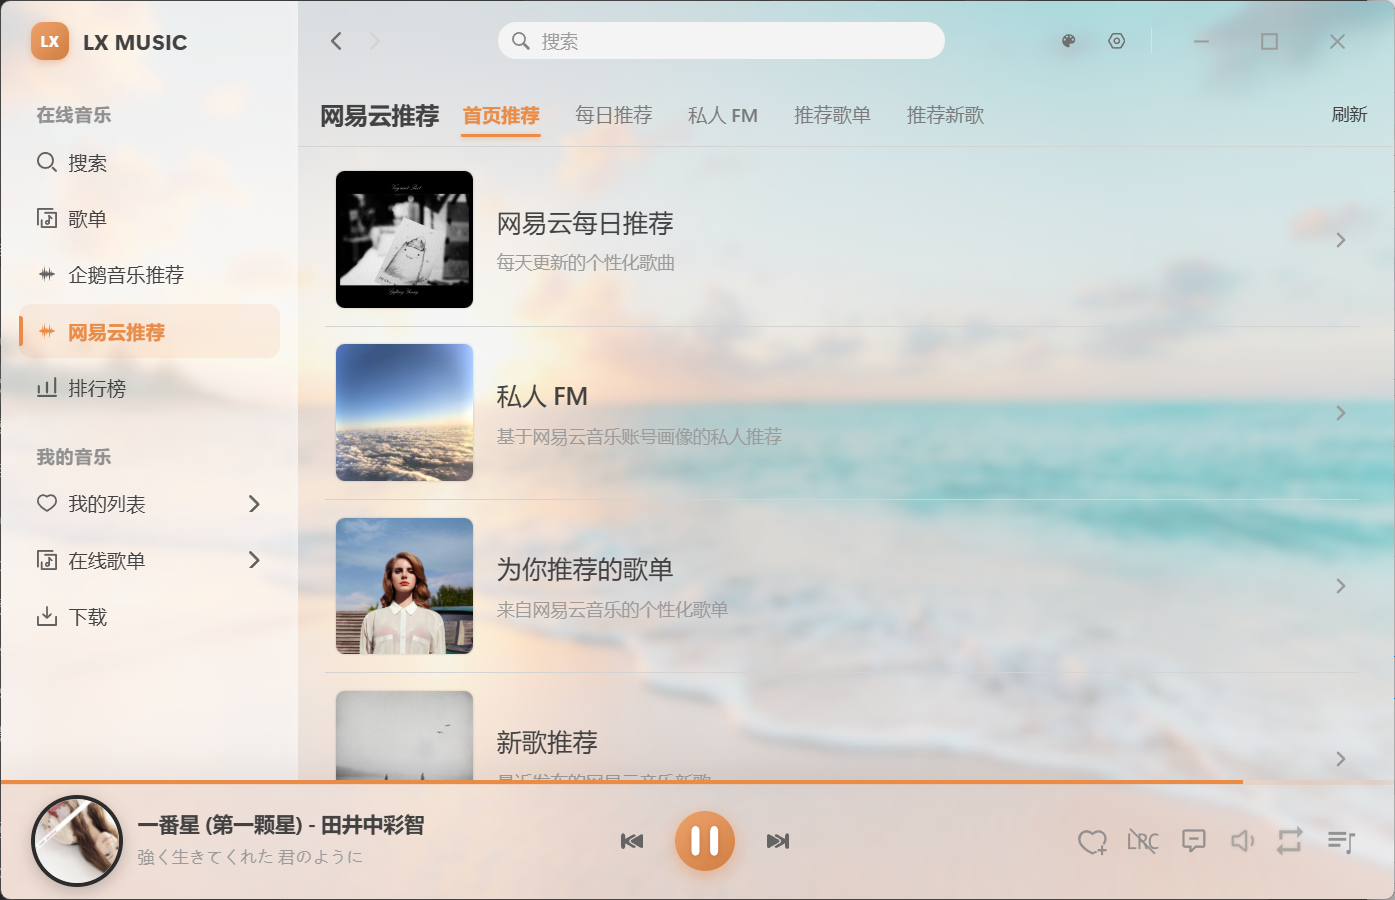
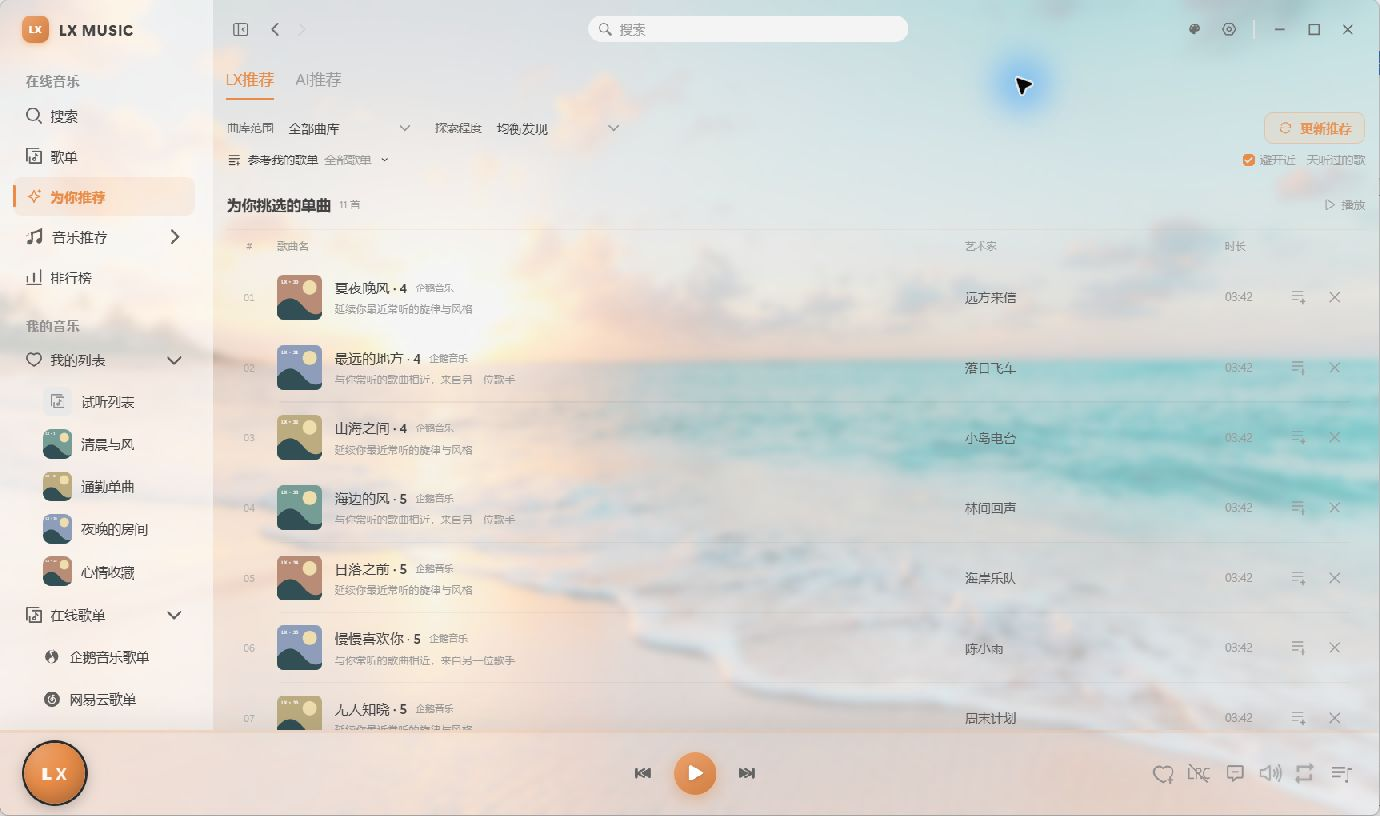
fix: fit desktop lyrics and refresh README screenshots

diff --git a/src/main/modules/winLyric/main.ts b/src/main/modules/winLyric/main.ts
@@ -14,6 +14,7 @@ let isLyricOverlayOpen = false
 let overlayOriginBounds: Electron.Rectangle | null = null
 const LYRIC_STRIP_HEIGHT = 120
 const LYRIC_OVERLAY_HEIGHT = 400
+let contentHeight = LYRIC_STRIP_HEIGHT
 
 const saveBoundsConfig = debounce((window: Electron.BrowserWindow, config: Partial<LX.AppSetting>) => {
   if (browserWindow !== window) return
@@ -25,6 +26,7 @@ const resetWindowState = () => {
   isWinBoundsUpdateing = false
   isLyricOverlayOpen = false
   overlayOriginBounds = null
+  contentHeight = LYRIC_STRIP_HEIGHT
 }
 
 const winEvent = () => {
@@ -56,7 +58,7 @@ const winEvent = () => {
           'desktopLyric.x': bounds.x,
           'desktopLyric.y': bounds.y,
           'desktopLyric.width': bounds.width,
-          'desktopLyric.height': bounds.height,
+          'desktopLyric.height': LYRIC_STRIP_HEIGHT,
         })
       }
     } else if (isWin && !isLyricOverlayOpen) { // Linux 不允许将窗口设置出屏幕之外，MacOS未知，故只在Windows下执行强制设置
@@ -65,7 +67,7 @@ const winEvent = () => {
         x: global.lx.appSetting['desktopLyric.x'] ?? 0,
         y: global.lx.appSetting['desktopLyric.y'] ?? 0,
         width: global.lx.appSetting['desktopLyric.width'],
-        height: global.lx.appSetting['desktopLyric.height'],
+        height: contentHeight,
       })
     }
   })
@@ -76,9 +78,8 @@ const winEvent = () => {
     // console.log(bounds)
     isWinBoundsUpdateing = true
     const bounds = currentWindow.getBounds()
-    if (!isLyricOverlayOpen && bounds.height > 140) {
-      bounds.width = 860
-      bounds.height = LYRIC_STRIP_HEIGHT
+    if (!isLyricOverlayOpen && bounds.height != contentHeight) {
+      bounds.height = contentHeight
       currentWindow.setBounds(bounds)
     }
     if (!isLyricOverlayOpen) {
@@ -86,7 +87,7 @@ const winEvent = () => {
         'desktopLyric.x': bounds.x,
         'desktopLyric.y': bounds.y,
         'desktopLyric.width': bounds.width,
-        'desktopLyric.height': bounds.height,
+        'desktopLyric.height': LYRIC_STRIP_HEIGHT,
       })
     }
   })
@@ -154,7 +155,7 @@ export const createWindow = () => {
     y: winSize.y,
     minWidth,
     minHeight,
-    maxHeight: LYRIC_OVERLAY_HEIGHT,
+    maxHeight: Math.max(LYRIC_OVERLAY_HEIGHT, global.envParams.workAreaSize.height),
     useContentSize: true,
     frame: false,
     transparent: true,
@@ -232,6 +233,20 @@ export const setIgnoreMouseEvents = (ignore: boolean, options?: Electron.IgnoreM
   browserWindow.setIgnoreMouseEvents(ignore, options)
 }
 
+export const setContentHeight = (height: number) => {
+  if (!browserWindow || isLyricOverlayOpen || !Number.isFinite(height)) return
+  const maxHeight = Math.max(LYRIC_STRIP_HEIGHT, Math.min(800, global.envParams.workAreaSize?.height ?? 800))
+  const next = Math.max(LYRIC_STRIP_HEIGHT, Math.min(maxHeight, Math.ceil(height)))
+  if (next == contentHeight) return
+  const bounds = browserWindow.getBounds()
+  const nearTop = bounds.y <= 48
+  const y = Math.max(0, Math.min(nearTop ? bounds.y : bounds.y + bounds.height - next, (global.envParams.workAreaSize?.height ?? 1080) - next))
+  contentHeight = next
+  isWinBoundsUpdateing = true
+  browserWindow.setMaximumSize(Math.max(bounds.width, 860), Math.max(LYRIC_OVERLAY_HEIGHT, next))
+  browserWindow.setBounds({ ...bounds, y, height: next })
+}
+
 export const setLyricOverlay = (open: boolean) => {
   if (!browserWindow) return
   const bounds = browserWindow.getBounds()
@@ -240,14 +255,15 @@ export const setLyricOverlay = (open: boolean) => {
     overlayOriginBounds = { ...bounds }
     isLyricOverlayOpen = true
     isWinBoundsUpdateing = true
-    browserWindow.setMaximumSize(Math.max(bounds.width, 860), LYRIC_OVERLAY_HEIGHT)
-    const extra = LYRIC_OVERLAY_HEIGHT - bounds.height
+    const height = Math.max(LYRIC_OVERLAY_HEIGHT, contentHeight)
+    browserWindow.setMaximumSize(Math.max(bounds.width, 860), height)
+    const extra = height - bounds.height
     const nearTop = bounds.y <= 48
     browserWindow.setBounds({
       x: bounds.x,
       y: nearTop ? bounds.y : Math.max(0, bounds.y - extra),
       width: bounds.width,
-      height: LYRIC_OVERLAY_HEIGHT,
+      height,
     })
     return
   }
@@ -256,12 +272,12 @@ export const setLyricOverlay = (open: boolean) => {
   isWinBoundsUpdateing = true
   const origin = overlayOriginBounds ?? {
     x: bounds.x,
-    y: bounds.y + (LYRIC_OVERLAY_HEIGHT - LYRIC_STRIP_HEIGHT),
+    y: bounds.y + (Math.max(LYRIC_OVERLAY_HEIGHT, contentHeight) - contentHeight),
     width: 860,
-    height: LYRIC_STRIP_HEIGHT,
+    height: contentHeight,
   }
   overlayOriginBounds = null
-  browserWindow.setMaximumSize(Math.max(origin.width, 860), 140)
+  browserWindow.setMaximumSize(Math.max(origin.width, 860), Math.max(LYRIC_OVERLAY_HEIGHT, contentHeight))
   browserWindow.setBounds(origin)
 }
 

diff --git a/src/renderer-lyric/App.vue b/src/renderer-lyric/App.vue
@@ -1,8 +1,8 @@
 <template>
   <div id="container" :class="[{ lock: setting['desktopLyric.isLock'] }, { hide: isHide || isHoverHide }]">
     <div id="main" :class="{ 'bar-below': isLyricBarBelow }">
-      <div class="lyric-stack" data-lyric-hit>
-        <div class="control-bar" :class="{ visible: !setting['desktopLyric.isLock'] || isLyricMenuOpen, 'menu-open': isLyricMenuOpen, below: isLyricBarBelow }">
+      <div ref="lyricStack" class="lyric-stack" data-lyric-hit>
+        <div ref="controlBar" class="control-bar" :class="{ visible: !setting['desktopLyric.isLock'] || isLyricMenuOpen, 'menu-open': isLyricMenuOpen, below: isLyricBarBelow }">
           <layout-control-bar />
         </div>
         <layout-lyric-horizontal />
@@ -28,7 +28,7 @@
 <script setup>
 import useWindowSize from '@lyric/useApp/useWindowSize'
 import useHoverHide from '@lyric/useApp/useHoverHide'
-import { onMounted, onBeforeUnmount } from '@common/utils/vueTools'
+import { onMounted, onBeforeUnmount, ref } from '@common/utils/vueTools'
 import { isLyricBarBelow, isLyricMenuOpen, setting } from '@lyric/store/state'
 import { sendConnectMainWindowEvent, updateSetting, setIgnoreMouseEvents } from '@lyric/utils/ipc'
 import { syncLyricBarSide } from '@lyric/utils/lyricBarSide'
@@ -37,8 +37,12 @@ import useLyric from '@lyric/useApp/useLyric'
 import useTheme from '@lyric/useApp/useTheme'
 import { init as initLyricPlayer } from '@lyric/core/lyric'
 import usePauseHide from '@lyric/useApp/usePauseHide'
+import useContentSize from '@lyric/useApp/useContentSize'
 
 const isShowResize = false
+const lyricStack = ref(null)
+const controlBar = ref(null)
+useContentSize(lyricStack, controlBar)
 useCommon()
 const { handleMouseDown, handleTouchDown } = useWindowSize()
 const isHoverHide = useHoverHide()
@@ -113,21 +117,22 @@ onBeforeUnmount(() => {
 @import './assets/styles/index.less';
 @import './assets/styles/layout.less';
 
+html, body {
+  width: 100%;
+  height: 100%;
+  overflow: hidden;
+  overscroll-behavior: none;
+}
 body {
   user-select: none;
-  height: 100vh;
   box-sizing: border-box;
   color: #fff;
   opacity: 1;
 }
-
-body {
-  user-select: none;
-  height: 100vh;
-  box-sizing: border-box;
-}
 #root {
+  width: 100%;
   height: 100%;
+  overflow: hidden;
 }
 
 html, body, #root, #container, #main {
@@ -253,6 +258,8 @@ html, body, #root, #container, #main {
   align-items: center;
   width: fit-content;
   max-width: min(100%, 720px);
+  min-width: 0;
+  flex: none;
   height: auto;
   pointer-events: auto;
   padding: 4px 14px;

diff --git a/src/renderer-lyric/useApp/useContentSize.ts b/src/renderer-lyric/useApp/useContentSize.ts
@@ -1,0 +1,34 @@
+import { onBeforeUnmount, onMounted, watch, type Ref } from '@common/utils/vueTools'
+import { isLyricMenuOpen } from '@lyric/store/state'
+import { setContentHeight } from '@lyric/utils/ipc'
+
+export default (stack: Ref<HTMLElement | null>, bar: Ref<HTMLElement | null>) => {
+  let observer: ResizeObserver | undefined
+  let frame: number | undefined
+  let previousHeight = 0
+  const measure = () => {
+    frame = undefined
+    if (!stack.value || !bar.value || isLyricMenuOpen.value) return
+    // Reserve the toolbar even while it is hidden, so hovering never changes size.
+    // Use layout dimensions: the lyric entrance animation must not resize the window.
+    const height = Math.max(120, Math.ceil(stack.value.offsetHeight + bar.value.offsetHeight + 8 + 20))
+    if (height == previousHeight) return
+    previousHeight = height
+    setContentHeight(height)
+  }
+  const schedule = () => {
+    if (frame == null) frame = window.requestAnimationFrame(measure)
+  }
+  const stopMenu = watch(isLyricMenuOpen, schedule)
+  onMounted(() => {
+    observer = new ResizeObserver(schedule)
+    if (stack.value) observer.observe(stack.value)
+    if (bar.value) observer.observe(bar.value)
+    schedule()
+  })
+  onBeforeUnmount(() => {
+    observer?.disconnect()
+    stopMenu()
+    if (frame != null) window.cancelAnimationFrame(frame)
+  })
+}

diff --git a/src/main/modules/winLyric/rendererEvent.ts b/src/main/modules/winLyric/rendererEvent.ts
@@ -3,7 +3,7 @@ import { mainOn, mainHandle } from '@common/mainIpc'
 import { WIN_LYRIC_RENDERER_EVENT_NAME } from '@common/ipcNames'
 import { buildLyricConfig, getLyricWindowBounds } from './utils'
 import { sendNewDesktopLyricClient } from '@main/modules/winMain'
-import { getBounds, getMainFrame, sendEvent, setBounds, setIgnoreMouseEvents, setLyricOverlay, setResizeable } from './main'
+import { getBounds, getMainFrame, sendEvent, setBounds, setIgnoreMouseEvents, setLyricOverlay, setContentHeight, setResizeable } from './main'
 import { MessageChannelMain } from 'electron'
 import { mouseCheckTools } from './mouseCheckTools'
 
@@ -41,6 +41,10 @@ export default () => {
 
   mainOn<boolean>(WIN_LYRIC_RENDERER_EVENT_NAME.set_win_overlay, ({ params: open }) => {
     setLyricOverlay(open)
+  })
+  mainOn<number>(WIN_LYRIC_RENDERER_EVENT_NAME.set_content_height, ({ event, params: height }) => {
+    if (event.senderFrame !== getMainFrame()) return
+    setContentHeight(height)
   })
 
   mainOn(WIN_LYRIC_RENDERER_EVENT_NAME.request_main_window_channel, ({ event }) => {

diff --git a/src/renderer-lyric/utils/ipc.ts b/src/renderer-lyric/utils/ipc.ts
@@ -27,6 +27,9 @@ export const setIgnoreMouseEvents = (ignore: boolean, forward = true) => {
 export const setWinOverlay = (open: boolean) => {
   rendererSend<boolean>(WIN_LYRIC_RENDERER_EVENT_NAME.set_win_overlay, open)
 }
+export const setContentHeight = (height: number) => {
+  rendererSend<number>(WIN_LYRIC_RENDERER_EVENT_NAME.set_content_height, height)
+}
 let previousResizable: boolean | null = null
 export const setWindowResizeable = (resizable: boolean) => {
   if (previousResizable === resizable) return

diff --git a/src/main/modules/winLyric/config.ts b/src/main/modules/winLyric/config.ts
@@ -80,7 +80,6 @@ export const setLrcConfig = (keys: Array<keyof LX.AppSetting>, setting: Partial<
     }
     const bounds = getBounds()
     const needCollapse = !isCollapsingLyricWindow && !isLyricMenuOverlayOpen() && (
-      (bounds != null && bounds.height > 140) ||
       global.lx.appSetting['desktopLyric.height'] > 140 ||
       global.lx.appSetting['desktopLyric.height'] < 110 ||
       global.lx.appSetting['desktopLyric.direction'] != 'horizontal'

diff --git a/src/renderer-lyric/components/layout/LyricHorizontal/index.vue b/src/renderer-lyric/components/layout/LyricHorizontal/index.vue
@@ -295,6 +295,7 @@ export default {
   padding: 4px 10px;
   box-sizing: border-box;
   cursor: move;
+  > div { min-width: 0; max-width: 100%; }
 }
 .placeholder {
   width: auto;
@@ -395,10 +396,7 @@ export default {
         animation: lrc-line-in .32s ease;
         white-space: nowrap;
 
-      .extended {
-        display: none;
-      }
-      .line {
+      .line, .extended {
         max-width: 100%;
       }
       .font-lrc, .shadow {

diff --git a/src/common/ipcNames.ts b/src/common/ipcNames.ts
@@ -206,6 +206,7 @@ const modules = {
     set_win_resizeable: 'set_win_resizeable',
     set_ignore_mouse: 'set_ignore_mouse',
     set_win_overlay: 'set_win_overlay',
+    set_content_height: 'set_content_height',
     key_down: 'key_down',
     request_main_window_channel: 'request_main_window_channel',
     provide_main_window_channel: 'provide_main_window_channel',

diff --git a/README.md b/README.md
@@ -92,4 +92,16 @@
 
 ## 用户界面
 
-<p><img width="100%" src="./doc/images/app.png" alt="LX Flow Music 界面预览"></p>
+以下为当前界面的实机截图，使用演示歌单与模拟收听数据。
+
+**LX 推荐 · 完整单曲列表**
+
+<p><img width="100%" src="./doc/images/app.png" alt="LX 推荐界面：单列歌曲、参考歌单和探索程度设置"></p>
+
+**图标侧栏 · 收起后继续导航**
+
+<p><img width="100%" src="./doc/images/sidebar-collapsed.png" alt="收起后的侧栏保留搜索、推荐、歌单和听歌档案等可点击图标"></p>
+
+**听歌档案 · 月度与年度音乐报告**
+
+<p><img width="100%" src="./doc/images/listening-report.png" alt="年度音乐报告：实际收听时长、有效收听、完播、连续收听天数和常听歌曲"></p>

diff --git a/CHANGELOG.md b/CHANGELOG.md
@@ -1,5 +1,11 @@
 # lx-music-desktop change log
 
+## 未发布
+
+### 修复
+
+- 修复桌面歌词启用翻译、罗马音或使用较大字号时出现右侧滚动条、歌词和工具栏被截断的问题；窗口会按实际内容调整高度，关闭菜单后恢复合适大小。([#2](https://github.com/eohh-zhou/lx-flow-music-desktop/issues/2))
+
 ## [3.3.0](https://github.com/eohh-zhou/lx-flow-music-desktop/compare/v3.2.1...v3.3.0) - 2026-10-19
 
 ### 图标侧栏
